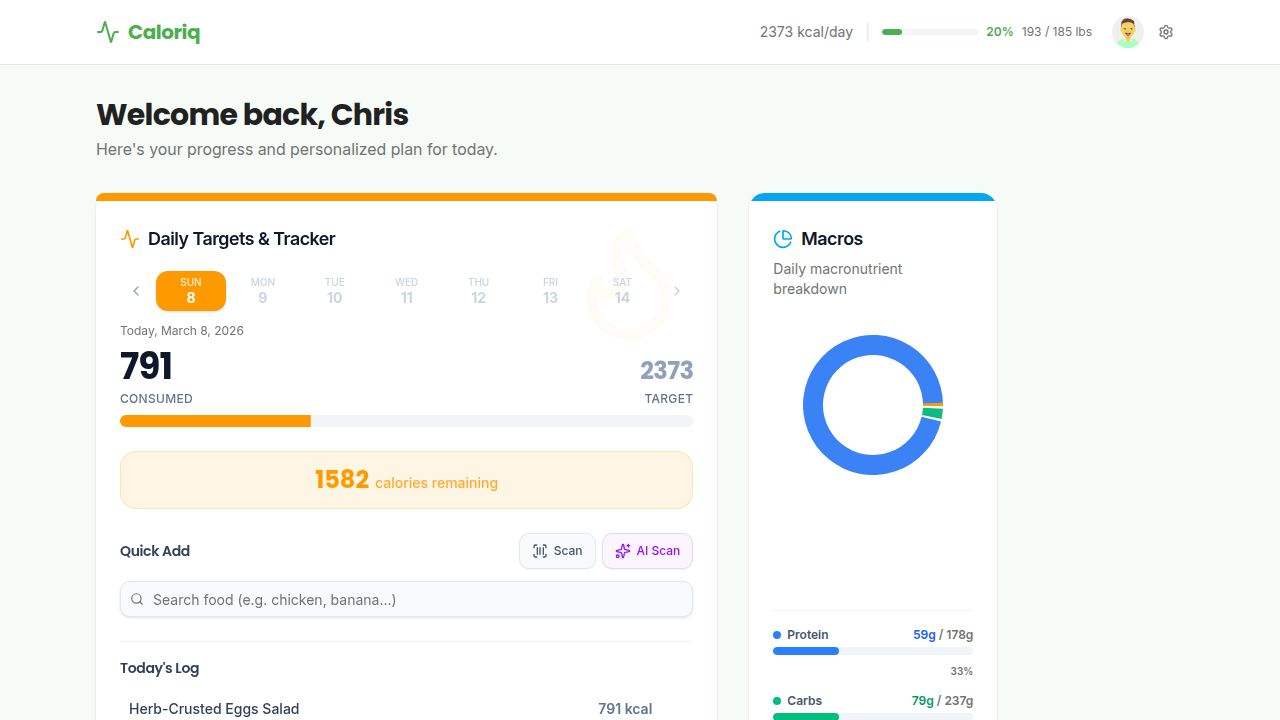
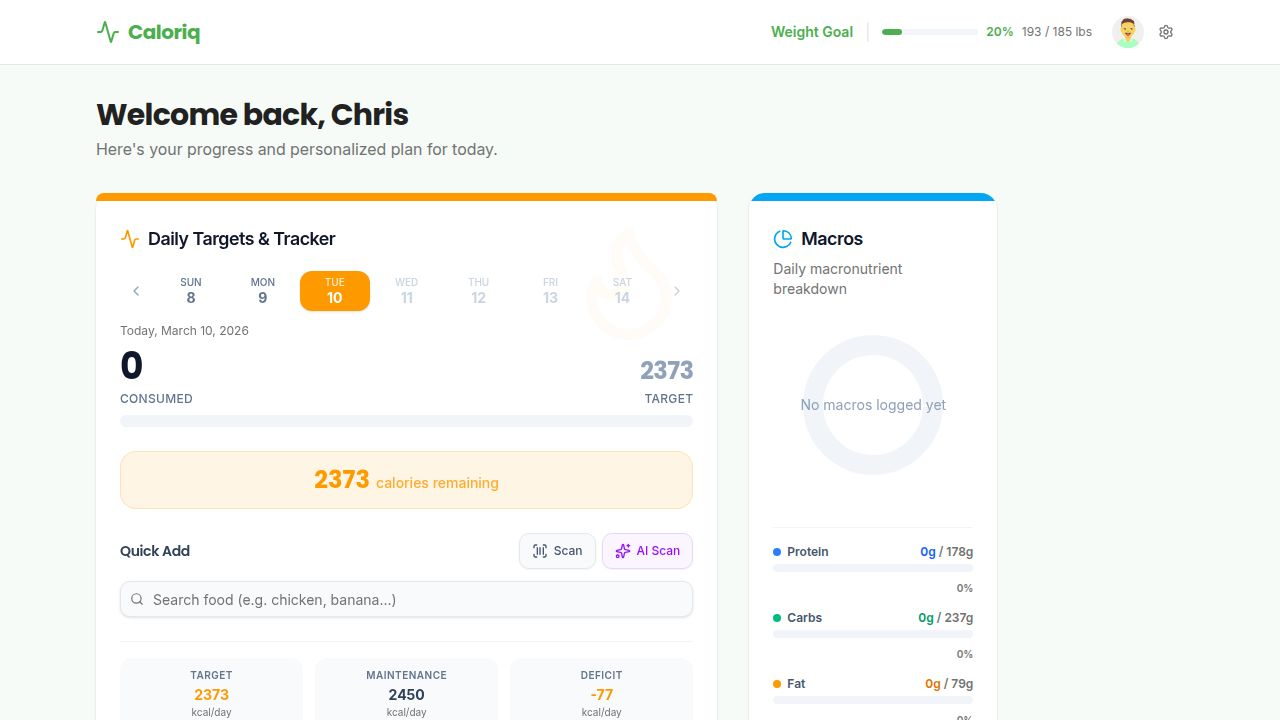
Update daily target display to show weight goal
Replace "kcal/day" with "Weight Goal" in the navbar and restructure the Daily Targets card to include Target, Maintenance, and Deficit/Surplus information in a three-column layout.

Replit-Commit-Author: Agent
Replit-Commit-Session-Id: d0c98cd4-3401-4b9a-9fcc-3167ef5b7d4c
Replit-Commit-Checkpoint-Type: full_checkpoint
Replit-Commit-Event-Id: c718a329-38e7-4ca1-be3b-27ba62935104
Replit-Commit-Screenshot-Url: https://storage.googleapis.com/screenshot-production-us-central1/b5252e75-7d72-4a27-a063-837869a7ea78/d0c98cd4-3401-4b9a-9fcc-3167ef5b7d4c/9iwHdwr
Replit-Helium-Checkpoint-Created: true

diff --git a/client/src/pages/home.tsx b/client/src/pages/home.tsx
@@ -645,10 +645,8 @@ export default function Home() {
             </div>
             <div className="flex items-center gap-3">
               <div className="hidden sm:flex items-center gap-3 mr-2">
-                <div className="flex items-center gap-2">
-                  <span className="text-sm text-muted-foreground">{targetCalories} kcal/day</span>
-                </div>
-                <div className="text-slate-200">|</div>
+                <span className="text-sm font-semibold text-primary">Weight Goal</span>
+                <div className="text-slate-200 dark:text-slate-700">|</div>
                 <div className="flex items-center gap-2">
                   <div className="w-24 h-1.5 bg-slate-100 dark:bg-slate-700 rounded-full overflow-hidden">
                     <div
@@ -858,18 +856,25 @@ export default function Home() {
                   </div>
                 )}
                 
-                <div className="grid grid-cols-2 gap-4 pt-4 border-t border-slate-100 dark:border-slate-800 mt-auto">
-                  <div>
-                    <div className="text-slate-500 dark:text-slate-400 text-xs uppercase tracking-wider mb-1">Maintenance</div>
-                    <div className="font-semibold text-slate-700 dark:text-slate-300">{maintenanceCalories} kcal</div>
+                <div className="grid grid-cols-3 gap-3 pt-4 border-t border-slate-100 dark:border-slate-800 mt-auto">
+                  <div className="bg-slate-50 dark:bg-slate-800 rounded-lg p-2.5 text-center">
+                    <div className="text-slate-500 dark:text-slate-400 text-[10px] uppercase tracking-wider font-semibold mb-0.5">Target</div>
+                    <div className="font-bold text-secondary text-sm">{targetCalories}</div>
+                    <div className="text-[10px] text-muted-foreground">kcal/day</div>
                   </div>
-                  <div>
-                    <div className="text-slate-500 dark:text-slate-400 text-xs uppercase tracking-wider mb-1">
-                      {isGainingWeight ? 'Daily Surplus' : 'Daily Deficit'}
+                  <div className="bg-slate-50 dark:bg-slate-800 rounded-lg p-2.5 text-center">
+                    <div className="text-slate-500 dark:text-slate-400 text-[10px] uppercase tracking-wider font-semibold mb-0.5">Maintenance</div>
+                    <div className="font-bold text-slate-700 dark:text-slate-300 text-sm">{maintenanceCalories}</div>
+                    <div className="text-[10px] text-muted-foreground">kcal/day</div>
+                  </div>
+                  <div className="bg-slate-50 dark:bg-slate-800 rounded-lg p-2.5 text-center">
+                    <div className="text-slate-500 dark:text-slate-400 text-[10px] uppercase tracking-wider font-semibold mb-0.5">
+                      {isGainingWeight ? 'Surplus' : 'Deficit'}
                     </div>
-                    <div className="font-semibold text-secondary">
-                      {isGainingWeight ? '+' : '-'}{Math.round(dailyDifference)} kcal
+                    <div className="font-bold text-secondary text-sm">
+                      {isGainingWeight ? '+' : '-'}{Math.round(dailyDifference)}
                     </div>
+                    <div className="text-[10px] text-muted-foreground">kcal/day</div>
                   </div>
                 </div>
               </CardContent>
